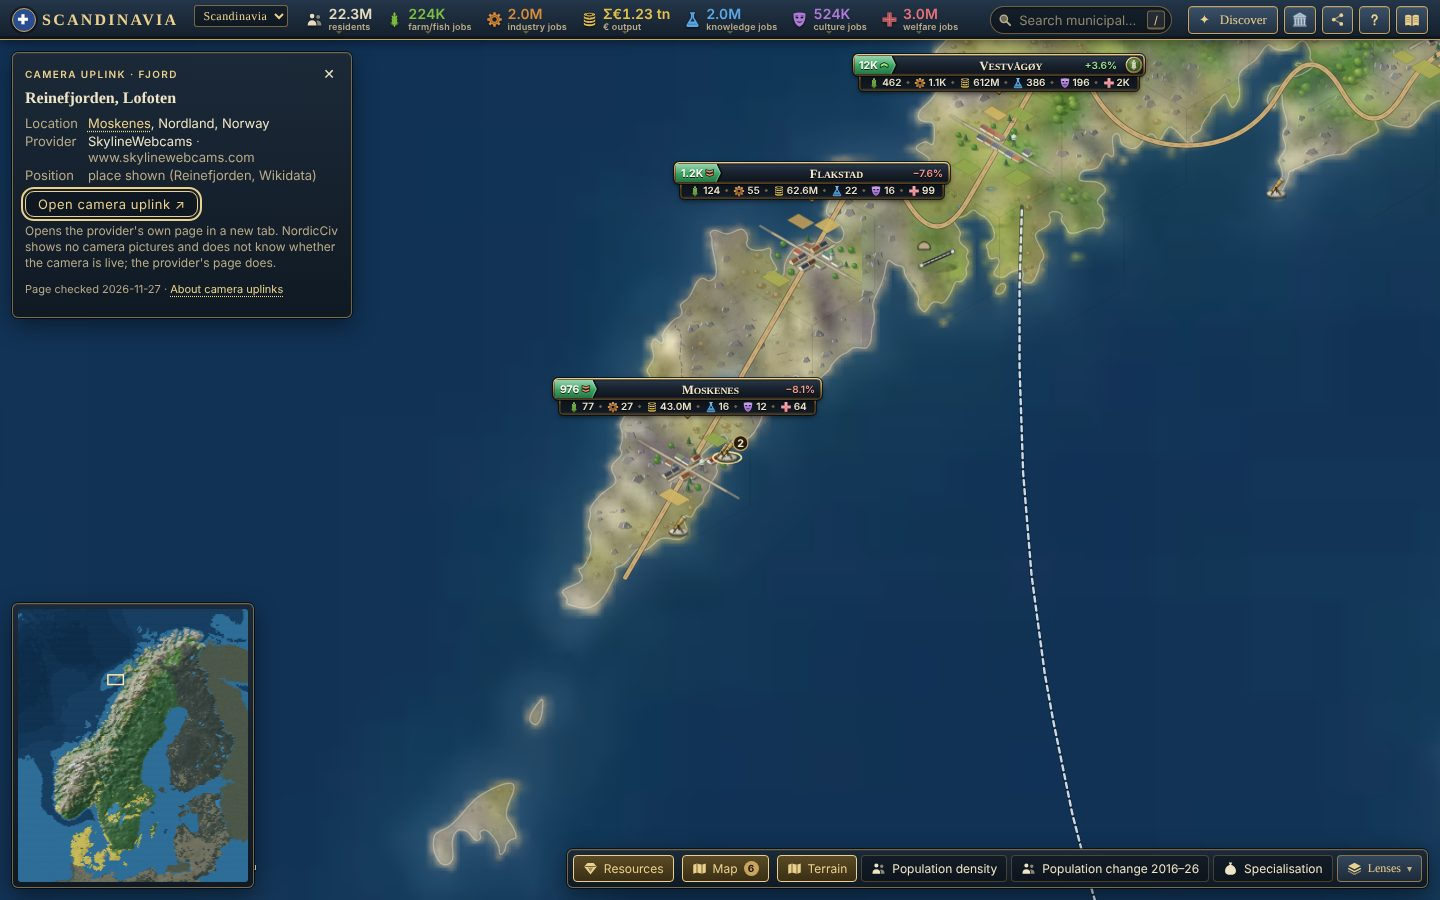
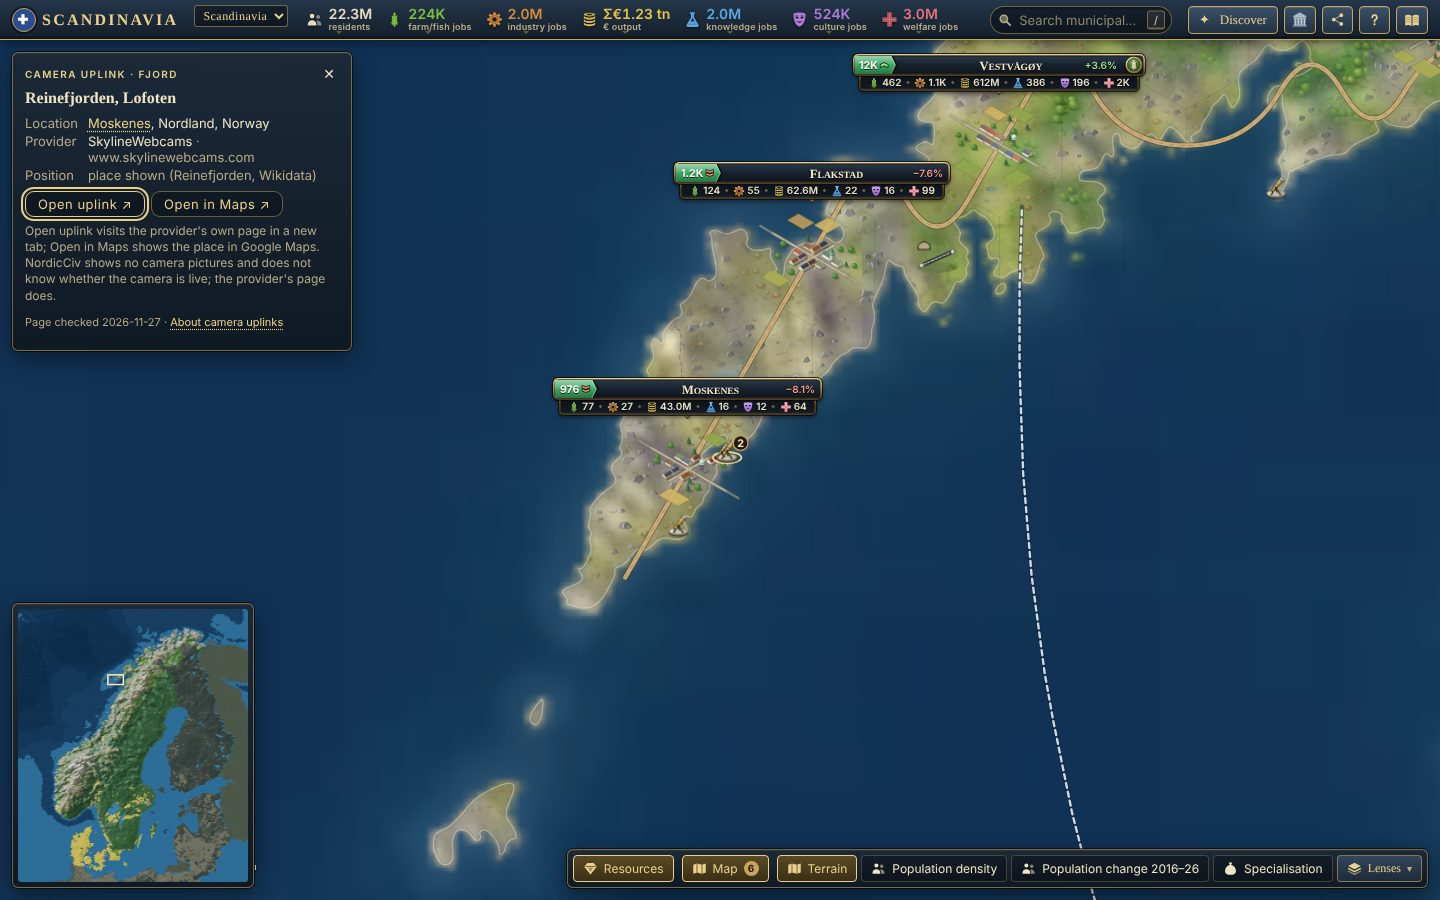
v0.5: docs (methodology, limitations, contracts, ledger, verification, user test), visual evidence 36-46, start-up timing vs main
Claude-Session: https://claude.ai/code/session_01NeX63UDFsdGNEpWbXjFDv1

Changed region(s): [[0.0, 0.1867, 0.25, 0.4044]]

diff --git a/docs/LEDGER.md b/docs/LEDGER.md
@@ -1,7 +1,26 @@
 # NordicCiv — requirements and evidence ledger
 
 Status: ✅ done and verified · 🟡 done, verification pending or partial · ⏳ open · ➖ out of scope. "Evidence" names the
-check, test or file that verifies the item. v0.5 items first; the v0.4, v0.3 and v0.2 tables follow unchanged.
+check, test or file that verifies the item. v0.5 items first (opening screen and Open in Maps, then camera uplinks); the v0.4, v0.3 and v0.2 tables follow unchanged.
+
+## v0.5 — opening screen and Open in Maps
+
+| ID | Requirement | Status | Implementation | Evidence |
+|---|---|---|---|---|
+| NC-O01 | Full-viewport opening: identity, subtle animated emblem, discreet version, progress line, changing status, automatic hand-over; NordicCiv's own art (navy, gold, serif, compass and contours), no terminal look | ✅ | `index.html` markup, `js/opening.js`, CSS "opening screen" | journey 33; states 40, 41 |
+| NC-O02 | Version from the repository's version information | ✅ | `web/data/version.json` built from `VERSION`; `check` fails on a mismatch | check `version:`; unit `test_version_file_is_the_repository_version` |
+| NC-O03 | Bound to real readiness: byte progress where measurable, whole files otherwise, indeterminate until known; no invented percentages, no staged steps, no minimum delay | ✅ | `opening.read/settle/preparing/ready` driven by `main.js` | journeys 33 (monotonic, steps follow arrivals), 35; METHODOLOGY "Opening screen" |
+| NC-O04 | Visible only until the first usable map; optional layers, relief and extensions not waited for | ✅ | ready in the frame after the first map frame | journey 34 (gone before outlines arrive and before uplinks are requested) |
+| NC-O05 | Cached start: immediate or short fade | ✅ | 0.18 s fade under 0.7 s, 0.42 s otherwise; map live during the fade | journey 35 |
+| NC-O06 | Failures: stop progress, plain explanation, retry, diagnostics kept; optional failures do not block | ✅ | `opening.fail`: missing data, failed download, code not loaded, offline; "Try again"; details + console | journeys 37, 38; state 42 |
+| NC-O07 | Accessibility and compatibility: desktop and phone, reduced motion, status without chatter, no hidden-control interaction, no layout shift, no new fonts/media/libraries | ✅ | app `inert` until ready; progressbar value text; one polite live line; `prefers-reduced-motion` | journeys 33, 36, 39; unit `test_opening_markup` |
+| NC-O08 | No slower start | ✅ | contours still, no live filters, progress drawn once per frame | `docs/perf/v05_opening_startup.json` (+32 ms to the first map frame vs `main`, one painted status frame) |
+| NC-M01 | "Open in Maps" to Google Maps with official cross-platform URLs; no key, SDK, embed, backend or proxy | ✅ | `web/js/app/maps.js` (one shared utility) | unit `test_url_formats`, `test_no_map_service_is_loaded` |
+| NC-M02 | Correct WGS84 positions from the features' own data; projected → lon/lat where needed; no centroid passed off as a town | ✅ | `web/js/util/geo.js` (LAEA inverse, ≤ 10⁻⁷° vs pyproj); municipality = extent view, settlement separate | unit `test_inverse_projection_matches_pyproj`, `test_positions_are_the_features_own`; journey 40 (pyproj in the test) |
+| NC-M03 | Zoom by the feature's scale; satellite view vs marked location kept distinct | ✅ | view/pin per kind (table in METHODOLOGY) | unit `test_behaviour_and_zoom_by_kind`; journey 40; real Google pages checked (VERIFICATION) |
+| NC-M04 | In existing inspectors only: municipality and region panels, sites list, camera card ("Open uplink" + "Open in Maps") | ✅ | no new navigation | journeys 28, 40; states 36, 43–46 |
+| NC-M05 | Explicit navigation, new tab, state kept, no geolocation, no turn-by-turn, nothing preloaded, no state or user data sent; invalid coordinates give no link; no links for energy, military or shelter sites | ✅ | anchors with `target=_blank`, `noopener noreferrer`, `no-referrer` | journeys 41, 42; unit `test_invalid_input` |
+| NC-M06 | Existing functionality and rendering preserved | ✅ | | journeys 0–32; 33 visual states pixel-identical to `main` (VERIFICATION) |
 
 ## v0.5 — public camera uplinks
 

diff --git a/docs/LIMITATIONS.md b/docs/LIMITATIONS.md
@@ -37,6 +37,17 @@
 - **The provider's page is a third-party site** with its own cookies, advertising and terms; NordicCiv sends no
   referrer and opens it in a separate tab, but cannot vouch for it.
 
+## Opening screen and Open in Maps (v0.5)
+
+- **Progress is only as fine as the server allows.** Byte progress needs `Content-Length` without compression; behind a
+  compressing server the line counts whole files (seven) and is indeterminate until every file has started.
+- **"Open in Maps" hands over to Google.** Google's pages have their own cookies, consent screens and terms (in Norway a
+  consent page comes first, then the requested view). NordicCiv sends a position and a zoom only, no referrer, and
+  cannot control what Google shows. Only Google Maps is offered so far.
+- **Positions are only as good as the data.** Ports are placed at their town, 21 camera uplinks at the place they show,
+  and settlement points are the EuroGeographics name positions; zoom levels are chosen so the place is in view, not to
+  frame any particular building.
+
 ## Known caveats
 
 - **Below 1 km the landscape only interpolates.** The relief image is painted from 1 km CORINE, EU-DEM and tree-cover
@@ -124,8 +135,14 @@
 19. **Public shelters (v0.4) as an optional infrastructure layer, not a workspace.** One Map-menu switch (off by default),
     a card, a Society-tab section, Council notes under Resilience, an Almanac page and one lens; no new top-bar button,
     no score. Grouping instead of displacement, so no symbol stands anywhere a record is not.
-20. **Camera uplinks (v0.5) as links, not a viewer.** One Map-menu switch (off by default), a card with one outbound link,
+20. **Camera uplinks (v0.5) as links, not a viewer.** One Map-menu switch (off by default), a card whose one link to the camera is "Open uplink" (plus "Open in Maps"),
     a short Overview section where a municipality has uplinks, Discover entries and an Almanac page; no media panel,
     monitoring workspace or new top-level navigation. Road and traffic cameras excluded on principle. Reviewed include
     lists instead of whole provider catalogues, so a provider's new cameras never appear unreviewed. OSIRIS studied,
     nothing imported (licence of its generated lists unclear, positions unreliable).
+21. **Opening screen and Open in Maps (v0.5) as small, honest additions.** The opening screen borrows OSIRIS's
+    structure (identity, emblem, version, progress line, changing status, automatic hand-over) in NordicCiv's own art,
+    bound to the real start-up with no minimum duration. "Open in Maps" is a link in the existing inspectors (municipality
+    and region panels, the site list, the camera card) rather than a navigation tool; Google Maps first because its
+    cross-platform URLs need no key and open the app on phones. Two behaviours (unmarked view / pin) chosen per kind of
+    place; no links for energy, military or shelter sites.

diff --git a/README.md b/README.md
@@ -45,10 +45,14 @@ towns, Danish farmland or the Øresund.
   Educational only — in an emergency, follow the authorities' instructions.
 - **Camera uplinks (v0.5).** 196 public webcams their operators publish — towns, mountains, fjords, coasts, islands,
   ski resorts, weather stations — as an optional layer in the Map menu (off by default; hidden at the scale of the whole
-  of Scandinavia). Selecting one opens a small card with one link, **Open camera uplink**, to the provider's own page in
+  of Scandinavia). Selecting one opens a small card with **Open uplink**, to the provider's own page in
   a new tab. NordicCiv loads nothing from the providers — no pictures, players, scripts or cookies — and never claims a
   camera is live. Reviewed from CamStreamer, Panomax, WebcamCollections, SkylineWebcams and operators' pages; road and
   people-facing cameras excluded. Municipality panels list their uplinks; Discover visits some of them.
+- **Opening screen and Open in Maps (v0.5).** A NordicCiv title card (compass emblem, title, version, a progress line
+  and status that follow the real start-up) shows only until the first map is drawn. Municipalities, their main
+  settlements, regions, landmarks, national parks, airports, ports and camera uplinks offer "Open in Maps": the real
+  place in Google Maps, in a new tab, from each feature's own position (no key, embed or tracking; NordicCiv keeps its view).
 - **Wonders by rule.** All 32 UNESCO World Heritage Sites, national parks ≥ 1,000 km², large/old universities, bridges
   ≥ 6 km and tunnels ≥ 11 km.
 - **23 lenses** in four groups (people, economy, welfare & access, land), each labelled hex / municipality / region /
@@ -90,8 +94,8 @@ python -m pipeline process --strict # raw → data/interim/<source>.json (a miss
 python -m pipeline build            # interim → web/data/*.json; validated, and restored if anything fails
 python -m pipeline check --mode built|source|release   # gates; reports in docs/CHECK_REPORT*.txt
 python -m unittest discover -s tests
-python tests/smoke_browser.py       # 33 real-browser journeys (0–32) (site served on :8765); writes tests/results/browser.json
-python tests/visual_states.py URL OUT   # the 39 standard screenshots at fixed cameras (visual regression)
+python tests/smoke_browser.py       # 43 real-browser journeys (0–42) (site served on :8765); writes tests/results/browser.json
+python tests/visual_states.py URL OUT   # the 46 standard screenshots at fixed cameras (visual regression)
 python tests/perf.py OUT.json now=URL   # laboratory performance (frame times, LCP, CLS, lens switch)
 python -m pipeline release          # stage, gate (unit + browser + data evidence for this candidate), package, verify, promote
 python -m pipeline all              # fetch + process (strict) + build

diff --git a/docs/VERIFICATION.md b/docs/VERIFICATION.md
@@ -1,4 +1,30 @@
-# Verification record — NordicCiv 0.5.0 (public camera uplinks)
+# Verification record — NordicCiv 0.5.0 (opening screen and Open in Maps; public camera uplinks)
+
+## Opening screen and Open in Maps (branch `feature/opening-maps`)
+
+Same build machine. Gates on the working tree (candidate `4e56daad195b…`):
+
+| Gate | Outcome |
+|---|---|
+| Unit tests | 57 run, 0 failed, 0 skipped (9 new in `tests/test_maps.py`: projection against pyproj, URL format and encoding, positions are the features' own, behaviour and zoom per kind, invalid input, link markup and escaping, version file, opening markup, no map service loaded) |
+| Browser journeys | 43 mandatory (0–42) PASS; 33–42 new (opening cold/slow with 4× CPU, not waiting for optional layers, cached, reduced motion, failures and retry, optional failures and the slow note, shared link and phone; Open in Maps across NO/SE/DK checked with pyproj, privacy and state, phone); 28 updated for the card's two actions |
+| `check --mode built` | 126 pass, 8 note, 0 warn, 0 fail (new: `version:`) |
+| Visual regression | 39 earlier states captured on `main` (ea7e6f3) and on the branch: 33 pixel-identical; 36, 37, 39 differ only by the new links (uplink card, municipality Overview). New states 40–46 |
+| Start-up time | first map frame 1,043 ms vs 1,011 ms on `main` (median of 10 alternating cold loads; `docs/perf/v05_opening_startup.json`). An animated contour layer cost ~0.1 s and was made still |
+
+Real behaviour at Google (the build machine cannot reach Google; checked in a desktop browser on 2026-11-27). After
+Google's consent page (in Norway; "Reject all" chosen), each URL opened as intended:
+`center=62.17758,7.01086 zoom=9 satellite` → Stranda municipality in satellite view at that exact centre;
+`search query=55.61767,12.65646` → a pin on the Kastrup airfield (Tårnby kommune, Denmark);
+`center=59.32673,17.98147 zoom=10 satellite` → Stockholm municipality; `center=62.19522,7.15162 zoom=16 satellite` →
+the Eidsvatnet shore at Eidsdal, the camera's published position.
+
+Opening under a slow network (≈ 4 Mbit/s, 150 ms) and 4× slower CPU: status lines "Opening Scandinavia…" → "Loading
+resources and regions…" → "…population and economy…" → "…cities and settlements…" → "Loading the landscape…" →
+"Preparing the map…" → "Ready to explore." in the order the files arrived; ready at 16.2 s, before the municipal outlines
+had arrived and before the camera-uplink layer was requested. Cached: ready in about 0.9 s.
+
+## Camera uplinks
 
 Executed on the build machine (Linux, 2 CPUs, Python 3.13, headless Chrome 153 with a software GPU, SwiftShader) on a
 feature branch. The 0.4.0 and 0.3.0 records follow unchanged below this section.

diff --git a/docs/visual/README.md b/docs/visual/README.md
@@ -67,8 +67,28 @@ draws nothing at that scale.
 | 33 regional south | Small spyglass-on-lookout symbols and count tabs, under the resource medallions, sites and banners |
 | 34 western Norway | Region view: coastal and fjord uplinks among hydropower and wind symbols |
 | 35 Lofoten (local) | Individual uplinks at their positions; Reine/Hamnøy still share one symbol at this scale |
-| 36 Reinefjorden selected | The card: category, name, location, provider and host, kind of position, one outbound link, no-live note |
-| 37 Stranda panel | Overview section: 3 public webcams, names, "Explore 3 camera uplinks on the map" |
+| 36 Reinefjorden selected | The card: category, name, location, provider and host, kind of position, 'Open uplink' and 'Open in Maps', no-live note |
+| 37 Stranda panel | Overview: "The real place" (Open in Maps, Open the town in Maps) above the camera uplinks section |
 | 38 under a lens | Symbols fade under the population-density lens and stay above the choropleth, below the sites |
-| 39 phone card | Åreskutan: the card as a bottom sheet with the link visible |
+| 39 phone card | Åreskutan: the card as a bottom sheet with both actions visible |
 
+
+## v0.5: opening screen and Open in Maps (`v05/after`, states 40–46)
+
+States 01–35 and 38 were captured on `main` before this change (ea7e6f3) and after it: all 33 that do not show a
+camera card or a municipality's Overview are pixel-identical (0 pixels differ). 36, 37 and 39 differ only by the new
+links. States 40–42 are taken while the start-up is held on `world.json` (40, 41) or `world.json` answers 404 (42).
+
+| State | What it shows |
+|---|---|
+| 40 opening, desktop | Compass emblem, NORDICCIV, "Explore Scandinavia", progress line (indeterminate: the held file's size is not yet known), status line, version |
+| 41 opening, phone | The same on 390 × 844, everything on screen |
+| 42 opening failed | "The map data is missing", plain explanation, "Try again" (focused), details for developers |
+| 43 Bergen panel | Overview · The real place: "Open in Maps" (municipality) and "Open the city in Maps" |
+| 44 Bergen sites | Economy · resources, wonders & hubs: Bryggen, University of Bergen, Flesland, port — each with Open in Maps |
+| 45 Møre og Romsdal | Region panel: Open in Maps (landscape overview of the county) |
+| 46 phone, Stranda | The panel as a bottom sheet with both map links |
+
+The screen recording (opening on a slow network, then Open in Maps for Stranda, Copenhagen Airport and a camera uplink,
+with Google's actual landing pages captured in a real browser) is not kept in the repository because it contains Google
+Maps imagery; it was handed over with the pull request.

diff --git a/docs/DATA_CONTRACTS.md b/docs/DATA_CONTRACTS.md
@@ -44,6 +44,7 @@ km in the Nordic LAEA frame described in `world.json.projection` (x right, y dow
 | `uplinks.json → cameras[]` | `{id (provider prefix + provider key, stable), name (NordicCiv's short name), cat, provider, provider_name? (operator pages), url (https viewing page on the provider's host), lat, lon (WGS 84 as listed), x, y (map km), cell, muni, country, pos ("published" / "place"), place? {qid, label}, verified (page-check date), assigned? {method, distance_m}}` — nothing else: no stream, image or token fields (checked) |
 | `uplinks.json → categories`, `providers` | category labels; provider name, home page and note |
 | `uplinks.json → policy`, `meaning`, `sources` | inclusion/exclusion rules, position and duplicate rules, no-live-claim wording, page-check meaning, absence caveat; raw listing URLs with retrieval time and SHA-256; attribution; the OSIRIS reference note |
+| `version.json` | `{version}`: the repository's `VERSION`, for the opening screen (`pipeline/build/version.py`; `check` fails if they differ) |
 | `uplinks.json → munis{}`, `totals`, `left_out_unverified` | per municipality `n` and camera `ids`; totals by country, category and provider, place positions, nearest-outline assignments; cameras left out for a failed or stale page check |
 
 ## Added in v0.4

diff --git a/docs/USER_TEST_SCRIPT.md b/docs/USER_TEST_SCRIPT.md
@@ -36,4 +36,9 @@ does not say (for example, illustrated trees taken as real forest stands): those
    do they find the Map-menu switch; do they read the spyglass as a viewpoint (not a surveillance camera); do they
    expect pictures inside NordicCiv, and do they understand the card's note that the provider's page decides whether it
    is live; is the outbound link clearly a new site?
+10. *Opening and Open in Maps (v0.5).* Reload the page (once with the browser cache cleared). "What did you see while it
+   loaded, and did it feel long?" Then: "Find Geiranger's municipality and look at the real place." Observe: whether
+   the status lines and progress feel truthful, whether the map appears as soon as it can, whether "Open in Maps" is
+   found, whether it is clear that it leaves NordicCiv (new tab), and whether returning to NordicCiv finds everything as
+   it was.
 
